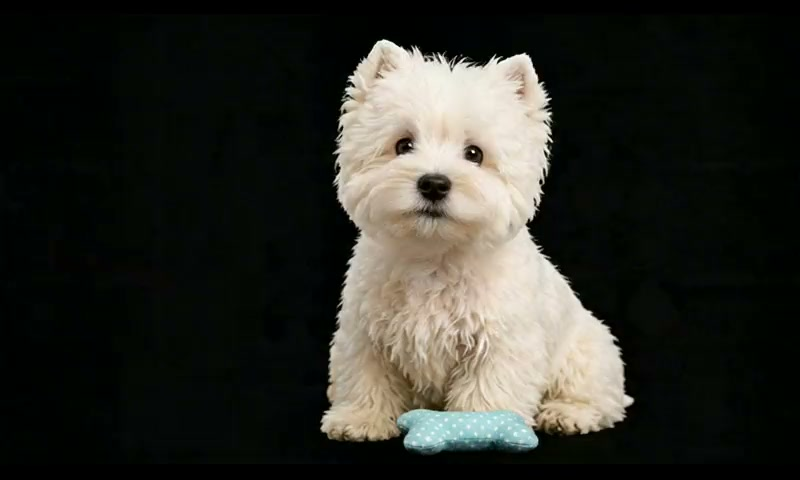
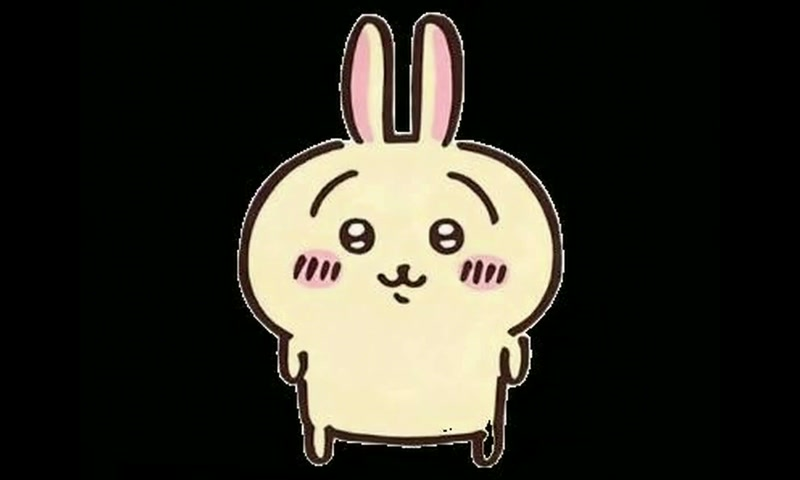
chore(board-runtime): update built-in terrier clips to the Usagi board export
Replace the built-in terrier pet videos with the desktop 乌萨奇 (Usagi) custom
appearance exported to board-friendly 800x480 / 24fps / black-background H.264.
The `terrier-clips` compatibility path and state names are kept, so the board
downlink protocol is unchanged.

- 48 state clips (generated-videos/*/*.raw.mp4) + idle frame refreshed
- manifest.json asset/total byte sizes updated (~5.6MB → ~21MB)
- terrier-clips-durations.tsv clip durations updated
- README / device-runtime-design note the content swap + compatibility path

Changed region(s): [[0.2812, 0.0, 0.8125, 1.0]]

diff --git a/board-runtime/README.md b/board-runtime/README.md
@@ -12,6 +12,11 @@ SPI 小屏上。
 - shell：启动编排、framebuffer 视频播放、Wi-Fi/AP/USB gadget 辅助脚本。
 - Python：负一屏 widget runtime、语音 PTT。
 
+当前仓库内置宠物视频仍沿用 `assets/pets/terrier` 与 `terrier-clips` 目录名作为运行时兼容路径；
+实际视频内容已替换为桌面端乌萨奇自定义形象导出的板端版本。部署脚本会继续从
+`assets/pets/terrier/generated-videos/*/*.loop.raw.mp4` 生成 `terrier-clips/<state>.mp4`
+链接，因此状态名和下发协议不需要改变。
+
 ## 快速构建
 
 首次把项目画面部署到默认硬件 Radxa Cubie A7Z 时，请先按

diff --git a/board-runtime/docs/device-runtime-design.md b/board-runtime/docs/device-runtime-design.md
@@ -218,6 +218,7 @@ terrier-clips/<state>[.<variant>].mp4
 ```
 
 `fb-display.sh` 启动时动态扫描 `terrier-clips/*.mp4`，不需要为新增 variant 改代码。clip 时长优先来自 `terrier-clips-durations.tsv`。
+当前仓库的内置默认素材仍使用 `terrier-clips` 兼容路径，但视频内容已由桌面端乌萨奇自定义形象导出并转成板端友好的 `800x480`、`24fps`、黑底 H.264 MP4。
 
 屏幕状态机的完整切换规则见 [屏幕状态机设计说明](screen-state-machine.md)。
 